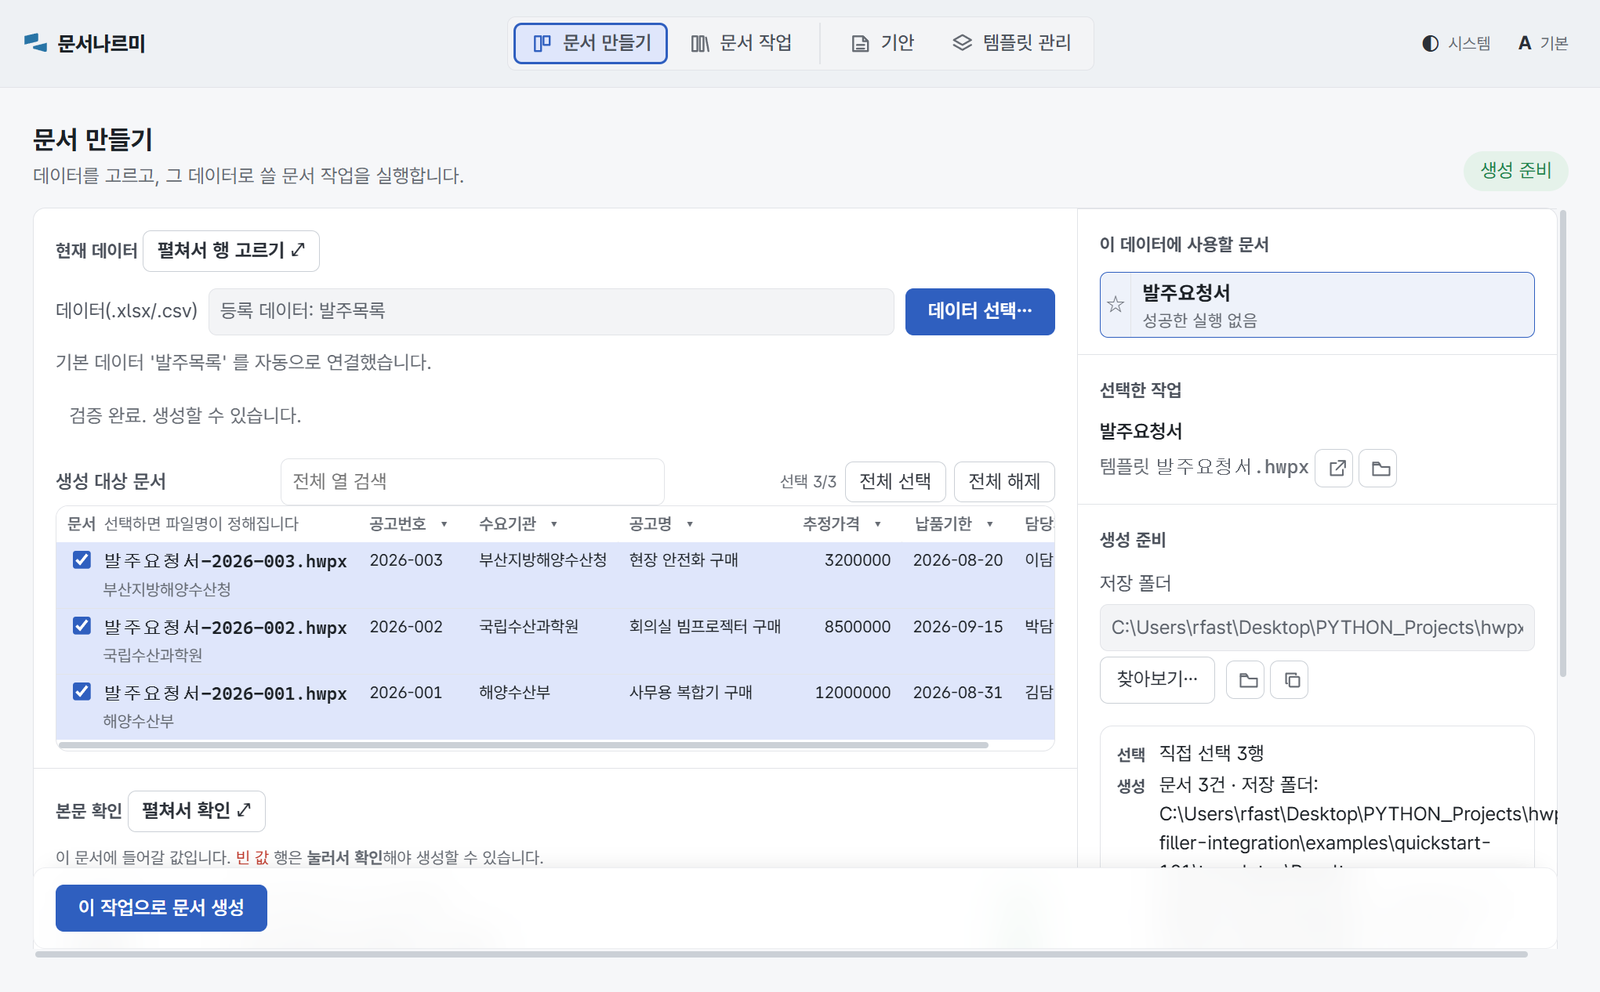
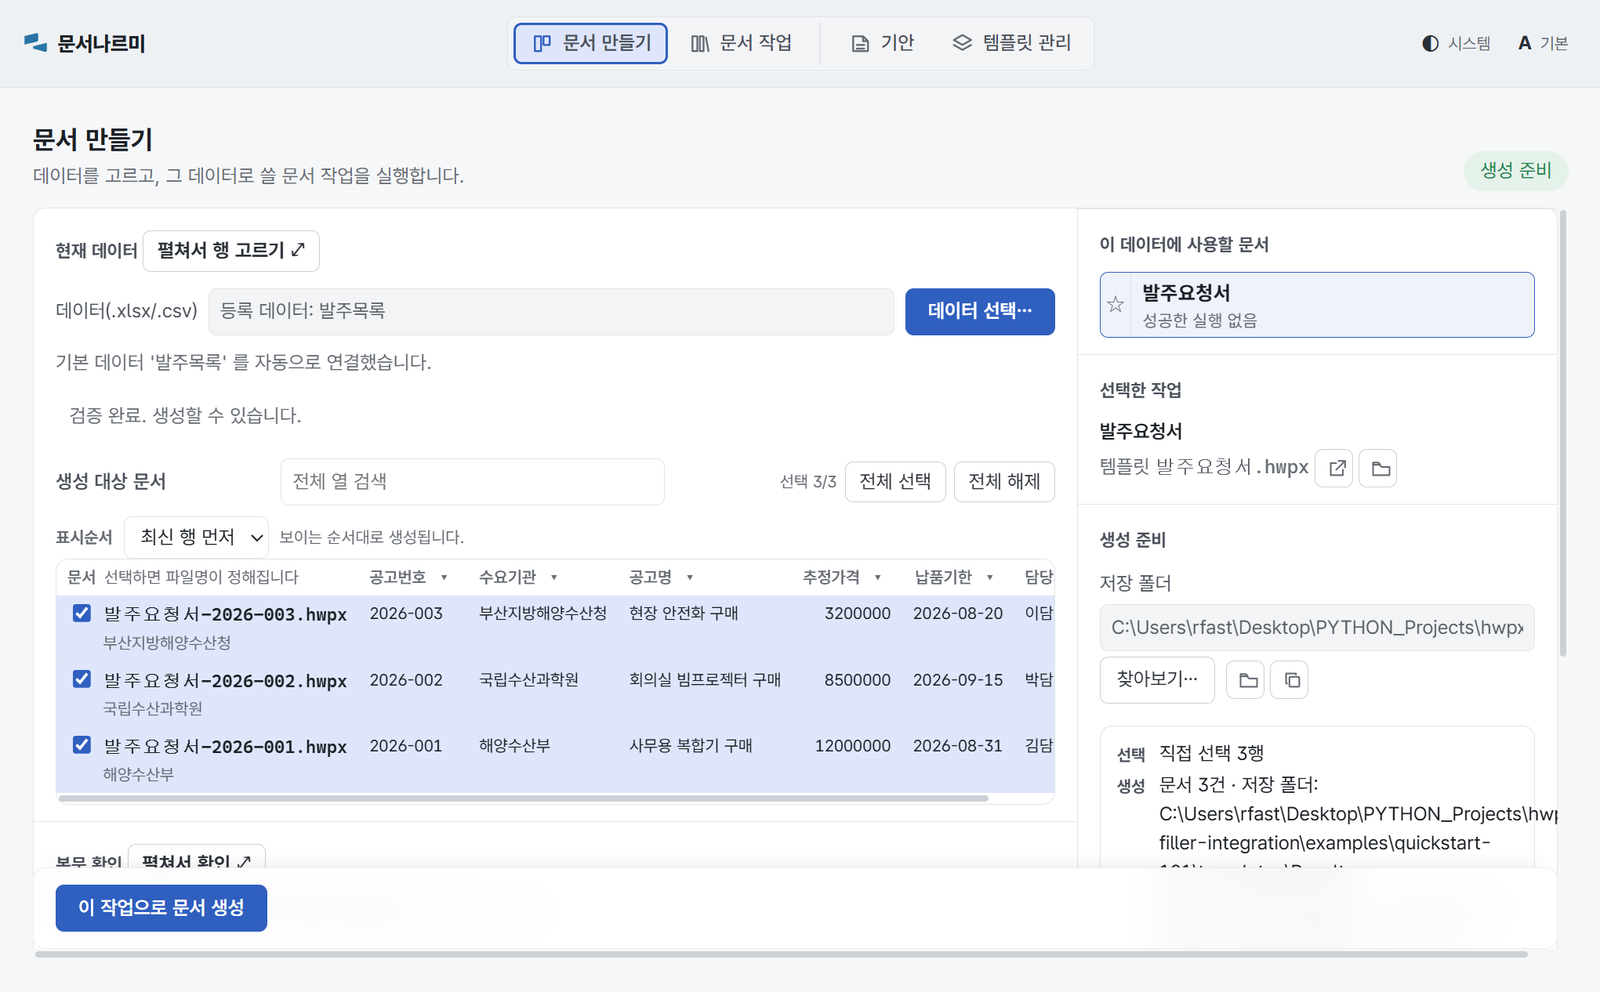
docs: F3 커밋 5 — 101 하니스에 범위 편집기 한 바퀴 + 스크린샷 13컷 재생성
§10.9.5 규칙(표면이 바뀐 슬라이스는 101 하니스 갱신·실행이 완료 조건) 이행. 하니스에 S5b
단계를 넣어 ⤢ 범위 편집기를 사람 순서로 밟는다: 열기(Python 왕복) → 표시순서 뒤집기 →
표가 따라오는지 확인 → 캡처 → 취소 → **메인 범위 보존 확인**. 101 README 에도 같은 이야기를
한 문단 + 그림 8 로 넣었다(뒤 그림 번호 일괄 +1).

**한 바퀴가 잡은 것 1건**: 「취소」가 곧바로 닫히지 않았다 — 표시순서를 바꿔 초안이 dirty
였고 이탈 가드가 정당하게 끼어든 것이다. 결함이 아니라 대본이 실물보다 순진했던 것이고,
사람 순서로 밟지 않았으면 가드가 실앱에서 실제로 뜨는지 아무도 안 봤을 자리다. 대본에
「버리고 닫기」를 태워 가드까지 완주하게 했다.

착지 정산은 지도 §10.11.6 이 정본(되깎기 1건 = 이탈 가드 3택→2택 · 실측 축소 2건 = 축
주소지·스트립 투영 · 경계 유지 비용 3곳 · 프로브 오염 2표본).

Claude-Session: https://claude.ai/code/session_01Rrb1BPh6ni98aBauhv8ae5

Changed region(s): [[0.0312, 0.5, 0.6562, 0.875]]

diff --git a/scripts/capture_101_screenshots.py b/scripts/capture_101_screenshots.py
@@ -329,6 +329,35 @@ def _drive(d: Driver) -> None:
     d.wait("!document.getElementById('jobGenBtn').disabled", "행 선택·게이트 열림")
     d.shot("session-panel")
 
+    # ---- S5b 범위 편집기(⤢) — 초안 거래를 사람 순서로 한 바퀴(F3) ----------
+    # 여는 것 자체가 Python 왕복(초안 생성)이고, 여기서의 편집은 **적용 전까지** 메인 범위를
+    # 바꾸지 않는다. 캡처 뒤 **취소**로 나오므로 아래 단계들의 상태는 그대로다.
+    d.click_sel("#jobDataExpand")
+    d.wait(
+        "!document.getElementById('dataSheet').classList.contains('hidden')"
+        " && document.getElementById('dataSheetSlot').contains("
+        "document.getElementById('jobRangeFoot'))",
+        "범위 편집기·footer",
+    )
+    # 표시순서를 뒤집어 표가 실제로 따라오는지 본다(보이는 것 = 만들어지는 것).
+    assert d.js("window.__cap.setValue('#jobOrderSel', 'sourceAsc')")
+    d.wait(
+        "(document.querySelector('#jobTableBody tr')||{dataset:{}}).dataset.i === '0'",
+        "표시순서 전환 반영",
+    )
+    d.shot("range-editor")
+    d.click_sel("#jobRangeCancel")
+    # 변경이 있으므로 이탈 가드가 끼어든다(적용하지 않은 편집을 조용히 버리지 않는다).
+    d.wait("!!window.__cap.btn(null,'버리고 닫기')", "이탈 가드")
+    d.js("window.__cap.clickBtn(null,'버리고 닫기'); true;")
+    # 취소 = 초안만 버린다: 메인 범위(선택 3건)와 축(최신 행 먼저)이 그대로여야 한다.
+    d.wait(
+        "document.getElementById('dataSheet').classList.contains('hidden')"
+        " && document.getElementById('jobOrderSel').value === 'sourceDesc'"
+        " && !document.getElementById('jobGenBtn').disabled",
+        "취소 뒤 메인 범위 보존",
+    )
+
     # ---- S6 본문 확인(거울) ------------------------------------------------
     d.scroll_to("#jobMirror")
     d.shot("mirror-check")

diff --git a/docs/DATA_FIRST_INTEGRATION_MAP.md b/docs/DATA_FIRST_INTEGRATION_MAP.md
@@ -453,7 +453,7 @@ HwpxRun`) + §10(성공과 실패). 이 절이 소유하는 것은 흐름의 정
 |---|---|---|
 | ~~F1~~ **착지** | 데이터 선택 다이얼로그 통합(현재/고정한/다른) + 전환 손실 가드 → `pool` 흡수·**화면 사망** — 계약 §10.7 | 12·13 |
 | ~~F2~~ **착지** | 전역 라이브러리 표면(browser+detail) + 상단 2탭 → `home` 흡수·사망 — **PR 2분할**: A(표면·`home` 사망) 계약 §10.8 · PR #309 squash `446e081` / B(셸 교체·좌 목록 사망) 계약 §10.9 | 14·15·1 |
-| F3 **착수** | 표시순서 축 + 전문 범위 편집기(draft) — 착수 계약 §10.11(사용자 확정 2건: F3 단독 · 현행 ⤢ 면에 draft 신설) | 4·10 |
+| ~~F3~~ **착지** | 표시순서 축 + 전문 범위 편집기(draft) — 계약 §10.11 · 정산 §10.11.6 | 4·10 |
 | ~~F4~~ **착지** | 결과 3태 + 부분 실패 표면 — **재시도 3종은 F7 로**(`runOverrides` 선행) — PR #311 squash `1ea532e` · 계약 §10.10 · 정산 §10.10.5 · 리뷰 4라운드 §10.10.6·8·9 | 8·9 |
 | F5 | 미리보기 드로어 + 검토 요구(승인) | 16 |
 | F6 | TXT 합류 + 작업대 → `draft` 흡수·사망(휘발 세션 폐지 고지) | 17·18·19 |
@@ -1241,6 +1241,52 @@ draft 가 겨누던 index 는 남의 행이다. 폐기는 **전환 손실 가드
 커밋 2 를 먼저 두는 이유: 표시순서는 draft 없이도 **혼자 완결**되는 축이고(오늘의 고정값을
 사용자 축으로 여는 것뿐), draft 는 그 축을 복제 대상에 포함해야 하므로 순서가 거꾸로면
 커밋 3 이 자기 대상 하나를 나중에 얻는다.
+
+#### 10.11.6 착지 정산 (2026-07-27)
+
+커밋 2 `e150594` · 3 `4380598` · 4 `63ab07f` · 5(101). 1969 passed · 실앱 게이트 69 passed ·
+101 하니스 13컷 완주.
+
+**되깎은 것 1건 — 판정 F(이탈 가드 3택 → 2택)**. 근거로 든 "에디터 section 가드 선례"가
+**master 에 없었다**(확인 모달은 2택뿐이고 3택 기제는 v6·계약 쪽 개념이다). 한 자리를 위해
+3택 모달을 신설하는 대신, 「적용」이 이미 면 안의 상시 primary 버튼이라는 사실로 대체한다 —
+「계속 편집 → 적용」이 한 클릭이고 파괴 방향(버리고 닫기)은 그대로 명시 확인을 받는다.
+되깎기 조건: 3택이 필요한 **두 번째 소비처**가 생기면 그때 기제를 세운다.
+
+**실측 축소 2건**: ①판정 C(축 주소지 2곳) — ⤢ 면이 실 DOM 을 옮기므로 주소지가 둘이 아니라
+**같은 요소가 따라간다**(복제 없음 = 상태가 갈릴 자리 없음). 도달성 요구는 그대로 충족.
+②판정 H(스트립 투영) — 작업 화면은 이미 표시순 투영을 통과한 실행 입력을 스트립 소재로
+넘기고 있었다. 거짓말한 것은 코드가 아니라 주석(「원본 순서」)이었고, 사실로 고치고 회귀를
+붙였다.
+
+**판정 D 의 세부 1건을 구현 중에 확정**: 표 「문서」 열의 파일 이름도 **초안 투영으로 다시
+계획**한다. 이름이 커밋 기준으로 남으면 편집기 안에서 축을 바꿔도 열이 안 움직여, 판정 I 의
+완화("표가 새 이름을 즉시 보여준다")가 하필 그 축을 만지는 자리에서 죽는다.
+
+**경계를 지키느라 갈라야 했던 것 3곳**(판정 D 표의 실제 이행 비용):
+
+| 자리 | 갈래 |
+|---|---|
+| 순서 투영 | `_display_indices` = **존 표시**(초안 축) / `_indices` = 실행 입력(커밋 축) |
+| 가시 집합 | 렌더용(`_zone_visible` — selected-only 가 갈아끼움) / 판정용(`view.visible_indices()`) |
+| 세션 가드 | 초안이 열린 동안만 재평가(초안 필터의 가시 집합으로 커밋 선택을 재지 않는다) |
+
+**곁들여 봉합 1건**: `setBusy` 의 잠금 루트에 ⤢ 펼침 면 2종이 빠져 있었다 — 실 DOM 이동이라
+잠글 요소가 면 안으로 **옮겨가** 화면 질의에서 빠진다(§9.3 3행이 오버레이 루트에 대해 잡은
+결함의 이동 버전).
+
+**교훈 2 — 프로브가 프로브를 오염시키는 두 표본**(계측 리트머스 승계). ⤢ 면 열기가
+Python 왕복 뒤로 바뀌자 기존 동기 프로브가 "열리기 전"을 재기 시작했다. 비동기로 떼어 내는
+과정에서 ①**앞 프로브의 늦은 push** 가 도착하면 작업 미선택 스냅샷이 내 면을 정당하게 닫고
+②`Nav.go('job')` 는 `REFRESH_ON_NAV` 로 실 refresh 를 쏴 같은 일을 한다. 둘 다 프로덕션 결함이
+아니라 **프로브가 만든 상태**였다. 규칙으로: 프로브는 ⓐ앞 프로브의 잔여 왕복을 흘려보내고
+ⓑ자기 판을 자기가 세우며 ⓒ**실패 경로에서도 연 면을 반드시 닫는다**(열린 채 남기면 뒤
+프로브의 계약이 대신 깨진다).
+
+**교훈 1 — 101 한 바퀴가 또 한 건을 잡았다**(§10.9.5 후속 규칙의 두 번째 배당). 하니스에
+범위 편집기 한 바퀴를 넣자 「취소」가 곧바로 닫히지 않았다 — 표시순서를 바꿔 초안이 dirty
+였고 이탈 가드가 정당하게 끼어든 것이다. 결함이 아니라 **대본이 실물보다 순진했던 것**이고,
+사람 순서로 밟지 않았으면 가드가 실앱에서 실제로 뜨는지 아무도 안 봤을 자리다.
 
 ## 6. 원재료
 

diff --git a/examples/quickstart-101/README.md b/examples/quickstart-101/README.md
@@ -171,11 +171,19 @@ macOS/Linux: `HWPXFILLER_HOME="$PWD/examples/quickstart-101" python -m hwpxfille
    ![세션 패널 — 자동 연결·3건 선택](img/07-session-panel.png)
    *그림 7. 기본 데이터 자동 연결 고지 + 3건 선택 + 오른쪽 후보 카드에 이 작업이 활성.*
 
+   행이 많으면 **[펼쳐서 행 고르기 ⤢]** — 큰 화면에서 검색·필터로 좁히고 **표시순서**를
+   고른다. 표시순서는 곧 **만들어지는 순서**다(파일 이름에 순번을 쓰면 그 번호도 이 순서를
+   따른다). 여기서 만진 것은 **[선택 적용]** 을 눌러야 반영되고, **[취소]** 로 나오면 원래
+   범위가 그대로 남는다 — 적용하지 않은 채 닫으면 버릴지 다시 묻는다.
+
+   ![범위 편집기 — 표시순서와 적용/취소](img/08-range-editor.png)
+   *그림 8. 펼침 면에서 표시순서를 「원본 순서」로 바꾼 상태. 아래 줄이 적용 전임을 말한다.*
+
 3. **본문 확인**(거울)으로 내려가 문서에 들어갈 값을 훑는다. 필드마다 표본 값과
    **채움** 칩이 보이면 정상이다(빈 값이 있으면 여기 빨간 행이 뜬다 — 아래 안전장치).
 
-   ![본문 확인 — 거울 표](img/08-mirror-check.png)
-   *그림 8. 거울 표 — 이 문서에 실제로 들어갈 값과 채움 상태를 생성 전에 확인한다.*
+   ![본문 확인 — 거울 표](img/09-mirror-check.png)
+   *그림 9. 거울 표 — 이 문서에 실제로 들어갈 값과 채움 상태를 생성 전에 확인한다.*
 
 4. 하단 **[이 작업으로 문서 생성]** 을 누른다. 진행바("생성 중… 1/3")가 돌고, 끝나면
    **생성 결과** 구획이 선다: **"문서 생성 완료 · 3개"** 제목, `완료. 성공 3/3, 실패 0.`
@@ -184,8 +192,8 @@ macOS/Linux: `HWPXFILLER_HOME="$PWD/examples/quickstart-101" python -m hwpxfille
    미연결」이라고 말한다 — 지어내지 않는다). 그 아래 **실행 기록**은 접혀 있고
    (평상시 노이즈), 마지막 한 줄만 요약에 보인다 — 펼치면 이 세션의 사건 이력이 나온다.
 
-   ![생성 완료 — 성공 3/3](img/09-generated.png)
-   *그림 9. 생성 결과 구획 — 완료 태·요약·저장 폴더 어포던스, 그 아래 실행 기록.*
+   ![생성 완료 — 성공 3/3](img/10-generated.png)
+   *그림 10. 생성 결과 구획 — 완료 태·요약·저장 폴더 어포던스, 그 아래 실행 기록.*
 
 `templates\Results\` 에 `발주요청서-2026-001.hwpx` 등 3개가 생긴다. 한컴오피스로 열어
 값을 확인한다(한컴 없이 실습만 해도 무방 — 생성 자체에 한컴은 필요 없다).
@@ -219,16 +227,16 @@ macOS/Linux: `HWPXFILLER_HOME="$PWD/examples/quickstart-101" python -m hwpxfille
    고른다 — **[전체 선택]** 을 누르면 카드가 첫 행 값으로 채워진다. 카드 제목은
    **"이대로 복사됩니다"** — 보이는 그대로가 복사 결과다.
 
-   ![기안 — 채움 미리보기](img/10-draft-filled.png)
-   *그림 10. 값 자리는 음영으로 표시된다. ② 맞추기 표에서 토큰↔열 대응을 손볼 수 있다.*
+   ![기안 — 채움 미리보기](img/11-draft-filled.png)
+   *그림 11. 값 자리는 음영으로 표시된다. ② 맞추기 표에서 토큰↔열 대응을 손볼 수 있다.*
 
 3. 하단 액션바의 **◀ / ▶** 로 행(작업점)을 넘기며 미리보기를 확인한다.
 4. **[📋 복사]** — 클립보드에 들어간다. **"복사 후 다음으로"** 를 켜 두면 복사할 때마다
    작업점이 다음 행으로 넘어가 여러 건을 연달아 처리하기 좋다. 완료 노트가
    **"✓ 1행 전량 채움 복사 완료."** 처럼 상태를 남긴다.
 
-   ![기안 — 복사 완료](img/11-draft-copied.png)
-   *그림 11. 복사 뒤 — 카드 제목이 「복사됨」으로 바뀌고 「✓ 1행 전량 채움 복사 완료.」 노트가 남는다.*
+   ![기안 — 복사 완료](img/12-draft-copied.png)
+   *그림 12. 복사 뒤 — 카드 제목이 「복사됨」으로 바뀌고 「✓ 1행 전량 채움 복사 완료.」 노트가 남는다.*
 
 여기서도 **없는 필드는 조용히 사라지지 않는다.** 초안이 데이터에 없는 토큰을 참조하면
 그 `{{토큰}}` 이 미리보기에 **빨갛게 그대로 남고**, 상태 pill 이 **항목 없음 N** 으로
@@ -246,8 +254,8 @@ macOS/Linux: `HWPXFILLER_HOME="$PWD/examples/quickstart-101" python -m hwpxfille
 떠난다는 확인이 뜨면 [바꾸기]). 이 초안은 일부러 데이터에 없는 `{{담당연락처}}` 토큰을
 갖고 있다 — 아래 그림처럼 **경고가 어떻게 생겼는지** 미리 봐 두면 실무에서 당황하지 않는다.
 
-![오류 연습 — 미치환 토큰 경고](img/12-missing-token.png)
-*그림 12. 데이터에 없는 토큰은 빨간 `{{담당연락처}}` 로 남고 상태 pill 이 「항목 없음 1」이 된다.*
+![오류 연습 — 미치환 토큰 경고](img/13-missing-token.png)
+*그림 13. 데이터에 없는 토큰은 빨간 `{{담당연락처}}` 로 남고 상태 pill 이 「항목 없음 1」이 된다.*
 
 | 증상 | 원인·해법 |
 |---|---|
